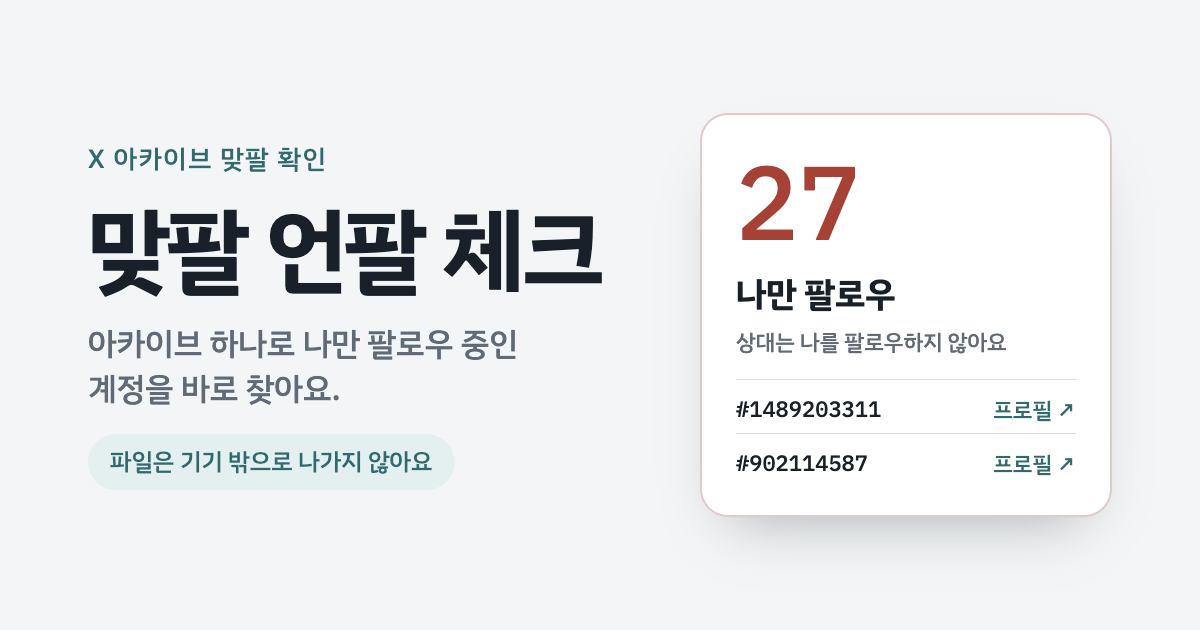
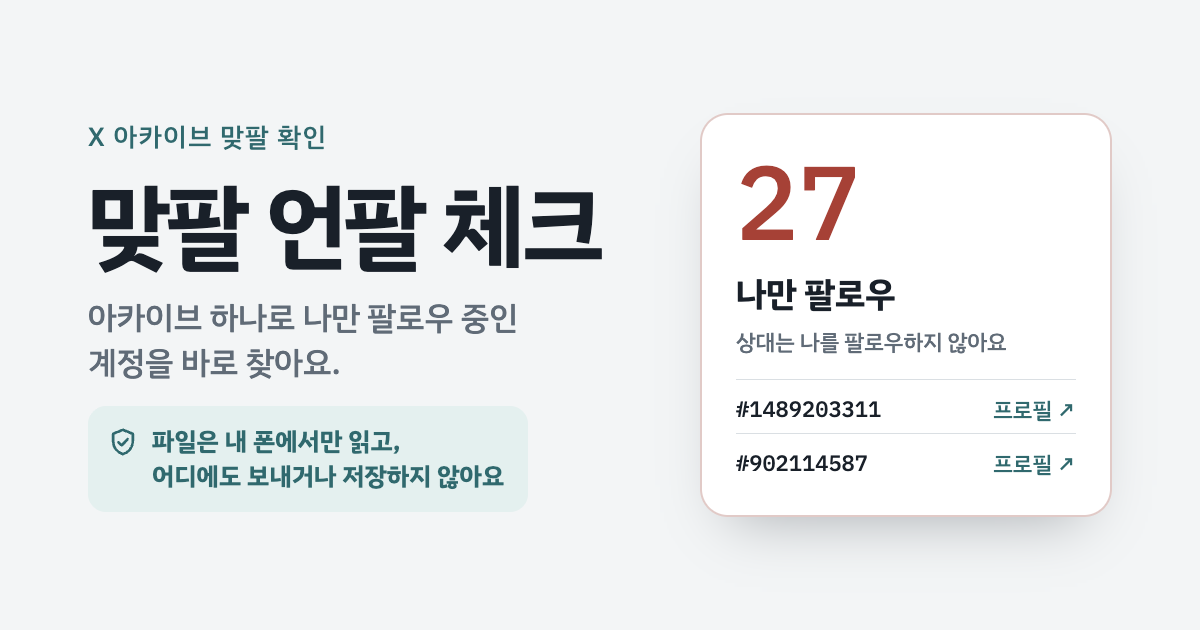
chore: refresh OG image with new privacy message

Changed region(s): [[0.0617, 0.181, 0.5242, 0.7841]]

diff --git a/index.html b/index.html
@@ -15,7 +15,7 @@
     <meta property="og:title" content="맞팔 언팔 체크" />
     <meta property="og:description" content="X 아카이브 하나로 나만 팔로우 중인 계정을 찾아요. 파일은 기기 밖으로 나가지 않아요." />
     <meta property="og:url" content="https://unfollow-check-x.vercel.app/" />
-    <meta property="og:image" content="https://unfollow-check-x.vercel.app/og.png" />
+    <meta property="og:image" content="https://unfollow-check-x.vercel.app/og.png?v=2" />
     <meta property="og:image:width" content="1200" />
     <meta property="og:image:height" content="630" />
     <meta name="twitter:card" content="summary_large_image" />
